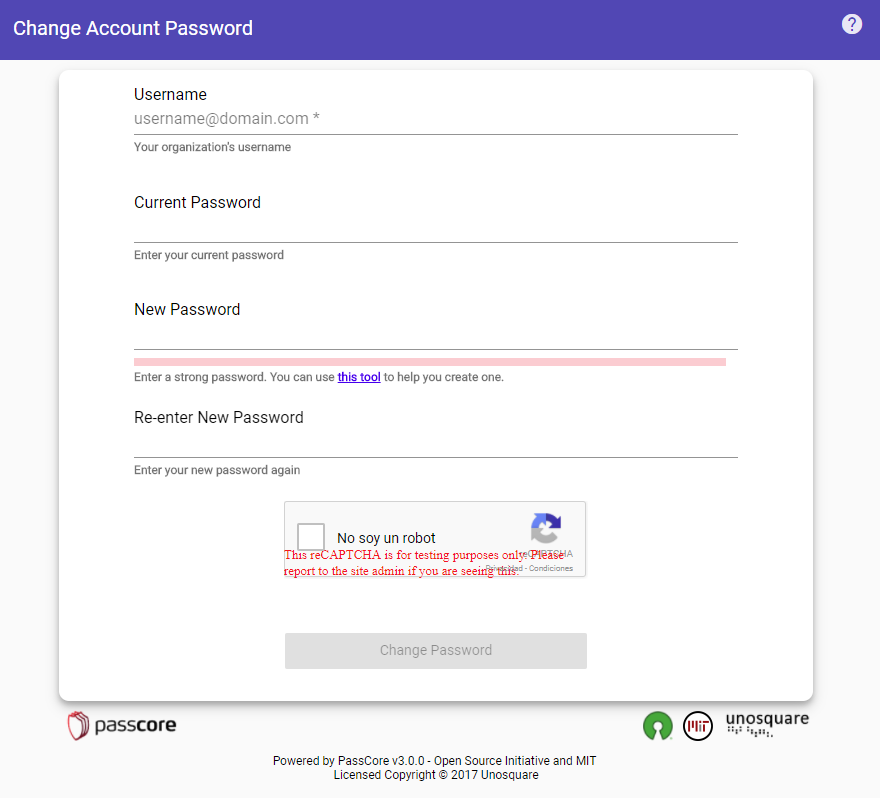
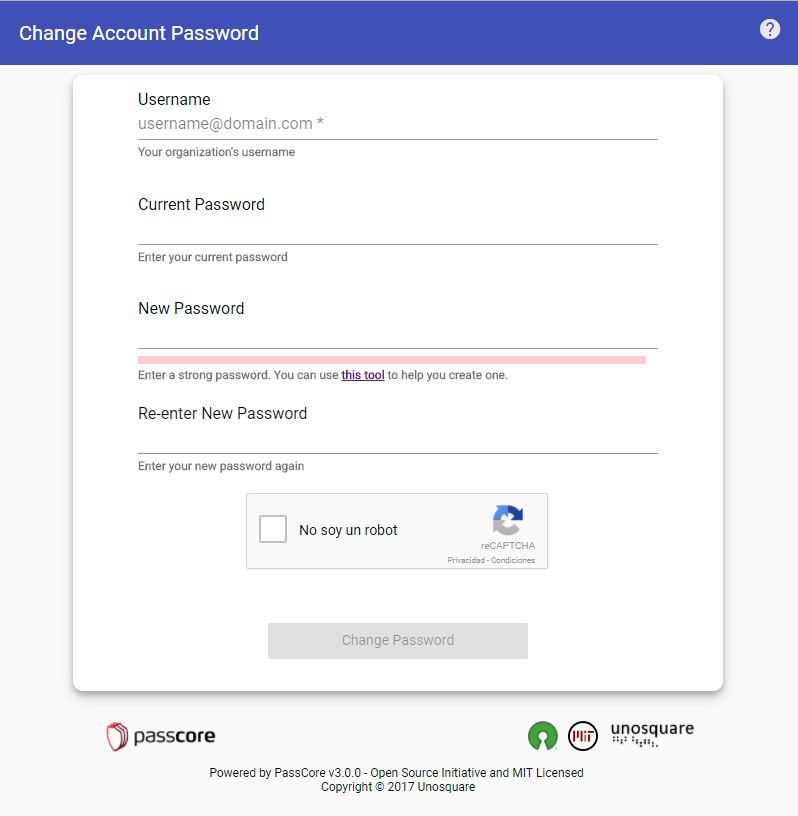
Changes layout, update README.md

diff --git a/src/Unosquare.PassCore.Web/ClientApp/app/change-password/change-password.html b/src/Unosquare.PassCore.Web/ClientApp/app/change-password/change-password.html
@@ -11,15 +11,15 @@
             <div fxLayout="column" fxLayoutAlign="center" fxLayoutGap="3%" class="form-container">
                 <div fxLayout="row" fxLayoutAlign="center center">
                     <div fxLayout="column" fxFlex="80" [formGroup]="FormGroup">
-                        <label for="Username">{{ViewOptions.changePasswordForm.usernameLabel}}</label>
-                        <mat-form-field floatPlaceholder="never">
+                        <mat-placeholder for="Username">{{ViewOptions.changePasswordForm.usernameLabel}}</mat-placeholder>
+                        <mat-form-field hideRequiredMarker floatPlaceholder="never">
                             <input matInput [(ngModel)]="FormData.Username" formControlName="username" name="Username" type="email" required placeholder="{{ViewOptions.changePasswordForm.usernamePlaceholder}}">
                             <mat-hint><strong>{{ViewOptions.changePasswordForm.usernameHelpblock}}</strong></mat-hint>
                             <mat-error *ngIf="FormGroup.get('username').hasError('pattern')">
                                 Please enter a valid email address
                             </mat-error>
                             <mat-error *ngIf="FormGroup.get('username').hasError('required')">
-                                Email is <strong>required</strong>
+                                {{ViewOptions.changePasswordForm.usernameLabel}} is <strong>required</strong>
                             </mat-error>
                         </mat-form-field>
                     </div>
@@ -27,13 +27,13 @@
 
                 <div fxLayout="row" fxLayoutAlign="center center">
                     <div fxLayout="column" fxFlex="80" [formGroup]="FormGroup">
-                        <label for="CurrentPassword">{{ViewOptions.changePasswordForm.currentPasswordLabel}}</label>
+                        <mat-placeholder for="CurrentPassword">{{ViewOptions.changePasswordForm.currentPasswordLabel}}</mat-placeholder>
                         <mat-form-field floatPlaceholder="never">
                             <input matInput [(ngModel)]="FormData.CurrentPassword" formControlName="currentPassword" name="CurrentPassword" type="password"
                                 placeholder="{{ViewOptions.changePasswordForm.currentPasswordPlaceholder}}">
                             <mat-hint><strong>{{ViewOptions.changePasswordForm.currentPasswordHelpblock}}</strong></mat-hint>
                             <mat-error *ngIf="FormGroup.get('currentPassword').hasError('required')">
-                                Current Password is <strong>required</strong>
+                                {{ViewOptions.changePasswordForm.currentPasswordLabel}} is <strong>required</strong>
                             </mat-error>
                         </mat-form-field>
                     </div>
@@ -41,7 +41,7 @@
 
                 <div fxLayout="row" fxLayoutAlign="center center">
                     <div fxLayout="column" fxFlex="80" [formGroup]="FormGroup">
-                        <label for="NewPassword">{{ViewOptions.changePasswordForm.newPasswordLabel}}</label>
+                        <mat-placeholder for="NewPassword">{{ViewOptions.changePasswordForm.newPasswordLabel}}</mat-placeholder>
                         <mat-form-field floatPlaceholder="never">
                             <input matInput [(ngModel)]="FormData.NewPassword" id="NewPassword" formControlName="newPassword" name="NewPassword" #NewPassword type="password"
                                 placeholder="{{ViewOptions.changePasswordForm.newPasswordPlaceholder}}">
@@ -50,21 +50,21 @@
                                 <strong innerHTML="{{ViewOptions.changePasswordForm.newPasswordHelpblock}}"></strong>
                             </mat-hint>
                             <mat-error *ngIf="FormGroup.get('newPassword').hasError('required')">
-                                New Password is <strong>required</strong>
+                                {{ViewOptions.changePasswordForm.newPasswordLabel}} is <strong>required</strong>
                             </mat-error>
                         </mat-form-field>
                     </div>
                 </div>
 
-                <div fxLayout="row" fxLayoutAlign="center center">
+                <div fxLayout="row" fxLayoutAlign="center center" class="margin-top">
                     <div fxLayout="column" fxFlex="80" [formGroup]="FormGroup">
-                        <label for="NewPasswordVerify">{{ViewOptions.changePasswordForm.newPasswordVerifyLabel}}</label>
+                        <mat-placeholder for="NewPasswordVerify">{{ViewOptions.changePasswordForm.newPasswordVerifyLabel}}</mat-placeholder>
                         <mat-form-field floatPlaceholder="never">
-                            <input matInput [(ngModel)]="FormData.NewPasswordVerify" id="PasswordVerify" formControlName="newPasswordVerify" name="NewPasswordVerify" #NewPasswordVerify
+                            <input matInput [(ngModel)]="FormData.NewPasswordVerify" id="PasswordVerify" formControlName="newPasswordVerify" name="NewPasswordVerify"
                                 type="password" placeholder="{{ViewOptions.changePasswordForm.newPasswordVerifyPlaceholder}}">
                             <mat-hint><strong>{{ViewOptions.changePasswordForm.newPasswordVerifyHelpblock}}</strong></mat-hint>
                             <mat-error *ngIf="FormGroup.get('newPasswordVerify').hasError('required')">
-                                Password is <strong>required</strong>
+                                Re-enter New Password is <strong>required</strong>
                             </mat-error>
                             <mat-error *ngIf="FormGroup.get('newPasswordVerify').hasError('MatchPassword')">
                                 Passwords do not <strong>match</strong>

diff --git a/src/Unosquare.PassCore.Web/ClientApp/index.html b/src/Unosquare.PassCore.Web/ClientApp/index.html
@@ -11,7 +11,7 @@
     <meta name="description" content="PassCore is a self-service password change utility for Active Directory." />
     <meta name="author" content="Unosquare, LLC" />
     <meta name="title" content="PassCore" />
-    <meta property="og:image" content="images/passcore-logo.png" />
+    <meta property="og:image" content="assets/images/passcore-logo.png" />
     <meta property="og:title" content="PassCore - Self-Service Password Change Utility" />
 
     <title>Loading . . .</title>

diff --git a/src/Unosquare.PassCore.Web/ClientApp/app/change-password/app.change-password.css b/src/Unosquare.PassCore.Web/ClientApp/app/change-password/app.change-password.css
@@ -24,10 +24,9 @@
     height: 8px;
 }
 
-label {
-    top: 15px;
-    position: relative;
-}
+.margin-top {
+    margin-top: 20px;
+} 
 
 form {
     width: 95%;
@@ -47,11 +46,20 @@ mat-hint {
     width: 100%;
 }
 
+mat-placeholder {
+    top: 15px;
+    position: relative;
+}
+
 mat-progress-bar {
     height: 10%;
 }
 
 @media screen and (min-width: 600px) {
+    .margin-top {
+        margin-top: 10px;
+    } 
+
     form{
         width: 85%;
     }

diff --git a/README.md b/README.md
@@ -5,7 +5,7 @@
 
 ## Overview
 
-PassCore is a very simple 1-page web application written in <a target="_blank" href="https://github.com/dotnet/roslyn">C#</a>, using <a href="https://github.com/aspnet" target="_blank">ASP.NET 5</a>, <a href="https://github.com/twbs/bootstrap" target="_blank">Bootstrap</a>, <a href="https://github.com/angular" target="_blank">AngularJS</a> and <a href="https://msdn.microsoft.com/en-us/library/system.directoryservices.activedirectory(v=vs.110).aspx" target="_blank">Microsoft Directory Services</a>. It allows users to change their Active Directory password on their own, provided the user is not disabled.
+PassCore is a very simple 1-page web application written in <a target="_blank" href="https://github.com/dotnet/roslyn">C#</a>, using <a href="https://github.com/aspnet" target="_blank">ASP.NET 5</a>, <a href="https://github.com/angular/material2" target="_blank">Angular Material</a>, <a href="https://github.com/angular/angular" target="_blank">Angular</a> and <a href="https://msdn.microsoft.com/en-us/library/system.directoryservices.activedirectory(v=vs.110).aspx" target="_blank">Microsoft Directory Services</a>. It allows users to change their Active Directory password on their own, provided the user is not disabled.
 
 PassCore does not require any configuration, as it obtains the principal context from the current domain. I wrote this because a number of people have requested several features that the <a taget="_blank" href="http://unopasscore.codeplex.com/">original version</a> did not have. The original version of this tool was downloaded around 8000 times in 2.5 years. My hope is that the new version continues to be just as popular. There really is no free alternative out there (that I know of) so hopefully this saves someone else some time and money.
 
@@ -30,7 +30,7 @@ PassCore has the following features:
 6. Now, right click on the application pool you just created in the previous step and select *Advanced Settings ...*. Change the *Start Mode* to **AlwaysRunning**, and the *Idle Time-out (minutes)* to **0**. Click on *OK*. This will ensure PassCore stays responsive even after long periods of inactivity.
 7. Back on your *IIS Manager*, right click on *Sites* and select *Add Website*
 8. A dialog appears. Under *Site name*, enter **PassCore Website**. Under *Application pool* click on *Select* and ensure you select **PassCore Application Pool**. Under *Physical path*, click on the ellispsis *(...)*, navigate to the folder where you extracted PassCore. **Important:** Make sure the Physical path points to the <code>parent</code> folder which is the one containing the files, <code>logs</code> and <code>wwwroot</code> folders.  **NOTE:** If the folder <code>logs</code> is not there you can created. To enable the logs you need to change `stdoutLogEnabled` to "true" in the `web.config` file.
-9. Under the *Binding section* of the same dialog, configure the *Type* to be **https**, set *IP Address* to **All Unassigned**, the *Port* to **443** and the *Host name* to something like **password.yourdomain.com**. Under *SSL Certificate* select a certificate that matches the Host name you provided above. If you don't know how to install a certificate, please refer to <a href="https://www.digicert.com/ssl-certificate-installation-microsoft-iis-8.htm">SSL Certificate Install on IIS 8</a> and <a href="https://www.digicert.com/csr-creation-ssl-installation-iis-10.htm">SSL Certificate Install on IIS 10</a> in order to install a proper certificate. **Important:** Do not serve this website without an SSL certificate because requests and responses will be transmitted in cleartext and an attacker could easily retrieve these messages and collect usernames and passwords.
+9. Under the *Binding section* of the same dialog, configure the *Type* to be **https**, set *IP Address* to **All Unassigned**, the *Port* to **443** and the *Host name* to something like **password.yourdomain.com**. Under *SSL Certificate* select a certificate that matches the Host name you provided above. If you don't know how to install a certificate, please refer to <a href="https://www.digicert.com/ssl-certificate-installation-microsoft-iis-8.htm">SSL Certificate Install on IIS 8</a> or <a href="https://www.digicert.com/csr-creation-ssl-installation-iis-10.htm">SSL Certificate Install on IIS 10</a> in order to install a proper certificate. **Important:** Do not serve this website without an SSL certificate because requests and responses will be transmitted in cleartext and an attacker could easily retrieve these messages and collect usernames and passwords.
 10. Click *OK* and navigate to https://password.yourdomain.com (the host name you previously set). If all is set then you should be able to see the PassCore tool show up in your browser.
 
 ## Customization and Configuration
@@ -59,7 +59,7 @@ The most relevant configuration entries are shown below. Make sure you make your
   - Click: "World Wide Web Services"
   - Click: "Application Development Features"
   - Check the features.
-- If your users are having trouble changing passwords as in issues **<a href="https://github.com/unosquare/passcore/issues/8">#8</a>** or **<a href="https://github.com/unosquare/passcore/issues/9">#9</a>** then try configuring the section <code>PasswordChangeOptions</code> in the <code>/approot/src/Unosquare.PassCore.Web/appsettings.json</code> file. Here are some guidelines:
+- If your users are having trouble changing passwords as in issues **<a href="https://github.com/unosquare/passcore/issues/8">#8</a>** or **<a href="https://github.com/unosquare/passcore/issues/9">#9</a>** then try configuring the section <code>PasswordChangeOptions</code> in the <code>/appsettings.json</code> file. Here are some guidelines:
   - Ensure <code>UseAutomaticContext</code> is set to <code>false</code>
   - Ensure <code>LdapUsername</code> is set to an AD user with enough permissions to reset user passwords
   - Ensure <code>LdapPassword</code> is set to the correct password for the admin user mentioned above
